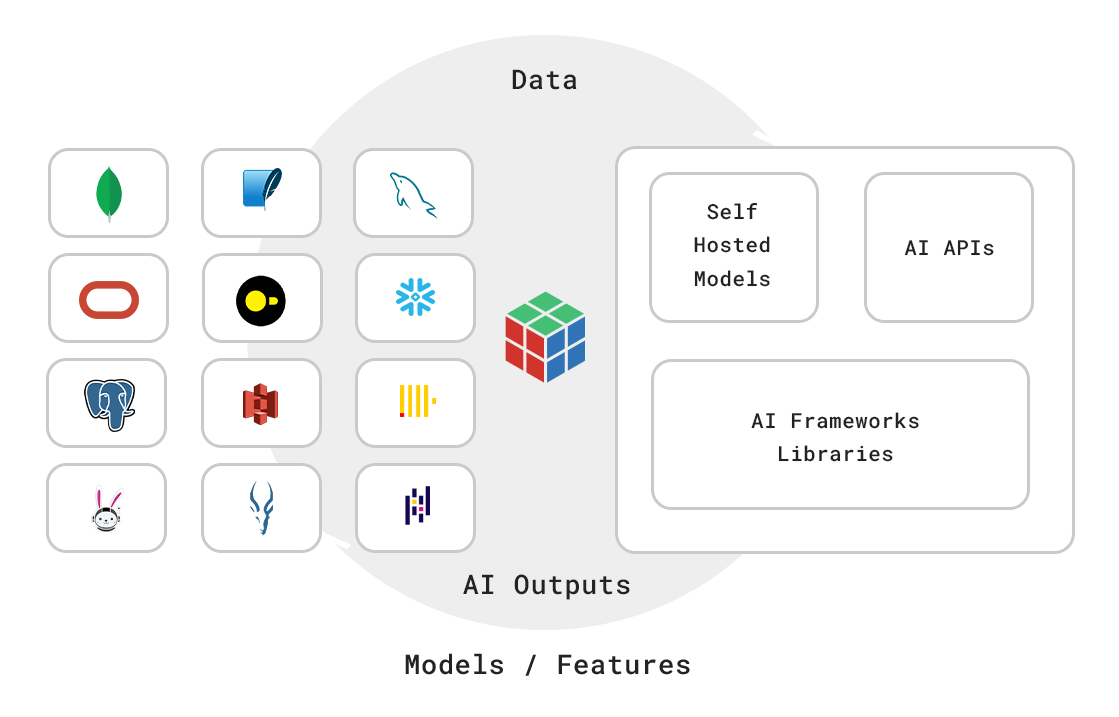
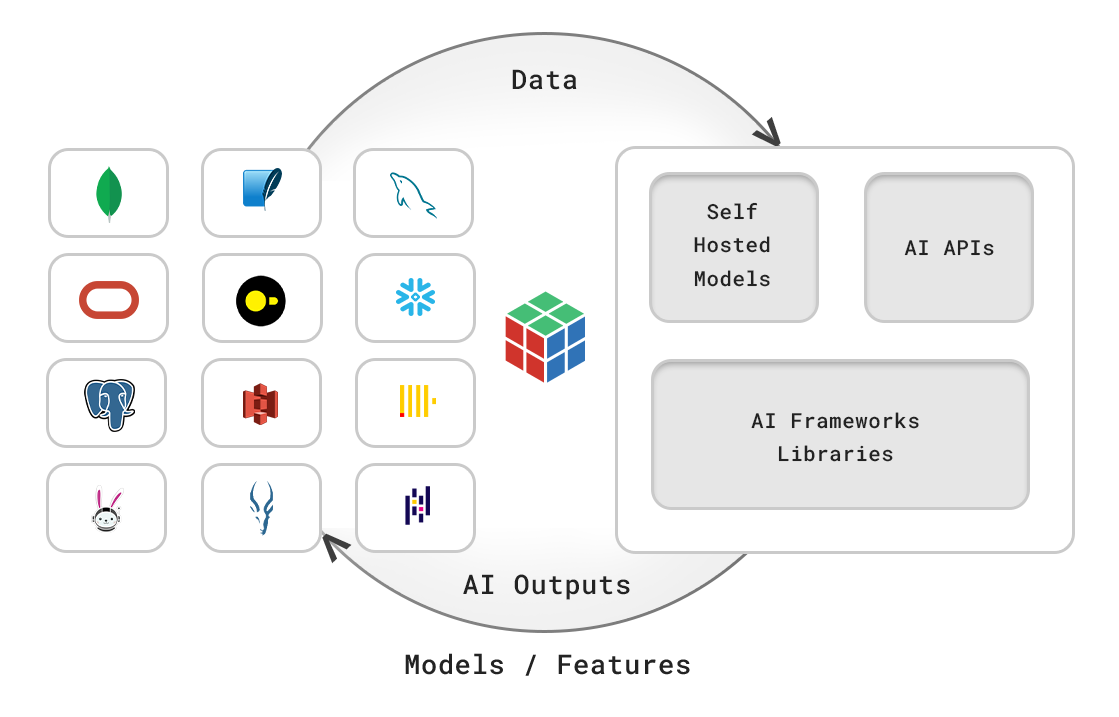
lil touches in design

diff --git a/components/features-02.tsx b/components/features-02.tsx
@@ -4,11 +4,20 @@ import FeatureImage02 from '@/public/images/feature-post-02.png'
 import Connect from '@/public/images/connect.png'
 import Database from '@/public/images/database.png'
 import Safeguard from '@/public/images/safeguard.png'
+import Illustration from '@/public/images/enterpriseGrid.svg'
 
 export default function Features02() {
   return (
     <section>
       <div className="pt-5 pb-10 md:py-15">
+        {/* Illustration */}
+        <div className="absolute inset-0 -z-10 -mx-28 rounded-b-[3rem] pointer-events-none overflow-hidden mt-40" aria-hidden="true">
+  <div className="absolute left-1/2 -translate-x-1/2 bottom-0 -z-10">
+    <Image src={Illustration} className="max-w-none" width={2146} priority alt="Hero Illustration" />
+  </div>
+  <div className="absolute inset-0 bg-gradient-to-t from-transparent to-white"></div>
+</div>
+
         <div className="max-w-6xl mx-auto px-4 sm:px-6">
           
           <div className="max-w-xs mx-auto sm:max-w-none grid sm:grid-cols-2 md:grid-cols-3 gap-8 sm:gap-4 lg:gap-8">

diff --git a/components/hero.tsx b/components/hero.tsx
@@ -2,19 +2,12 @@ import Link from 'next/link'
 import Image from 'next/image'
 import HeroImage from '@/public/images/hero-image.png'
 import Stats from '@/components/stats'
-import Illustration from '@/public/images/enterpriseGrid.svg'
 
 export default function Hero() {
   return (
     <section className="relative before:absolute before:inset-0 before:h-80 before:pointer-events-none before:bg-gradient-to-b before:from-zinc-100 before:-z-10">
       <div className="pt-32 pb-12 md:pt-40 md:pb-20">
         
-        {/* Illustration */}
-        <div className="absolute inset-0 -z-10 -mx-28 rounded-b-[3rem] pointer-events-none overflow-hidden" aria-hidden="true">
-          <div className="absolute left-1/2 -translate-x-1/2 bottom-0 -z-10">
-            <Image src={Illustration} className="max-w-none" width={2146} priority alt="Hero Illustration" />
-          </div>
-        </div>
         {/* Section content */}
         <div className="px-4 sm:px-6">
           <div className="max-w-3xl mx-auto">
